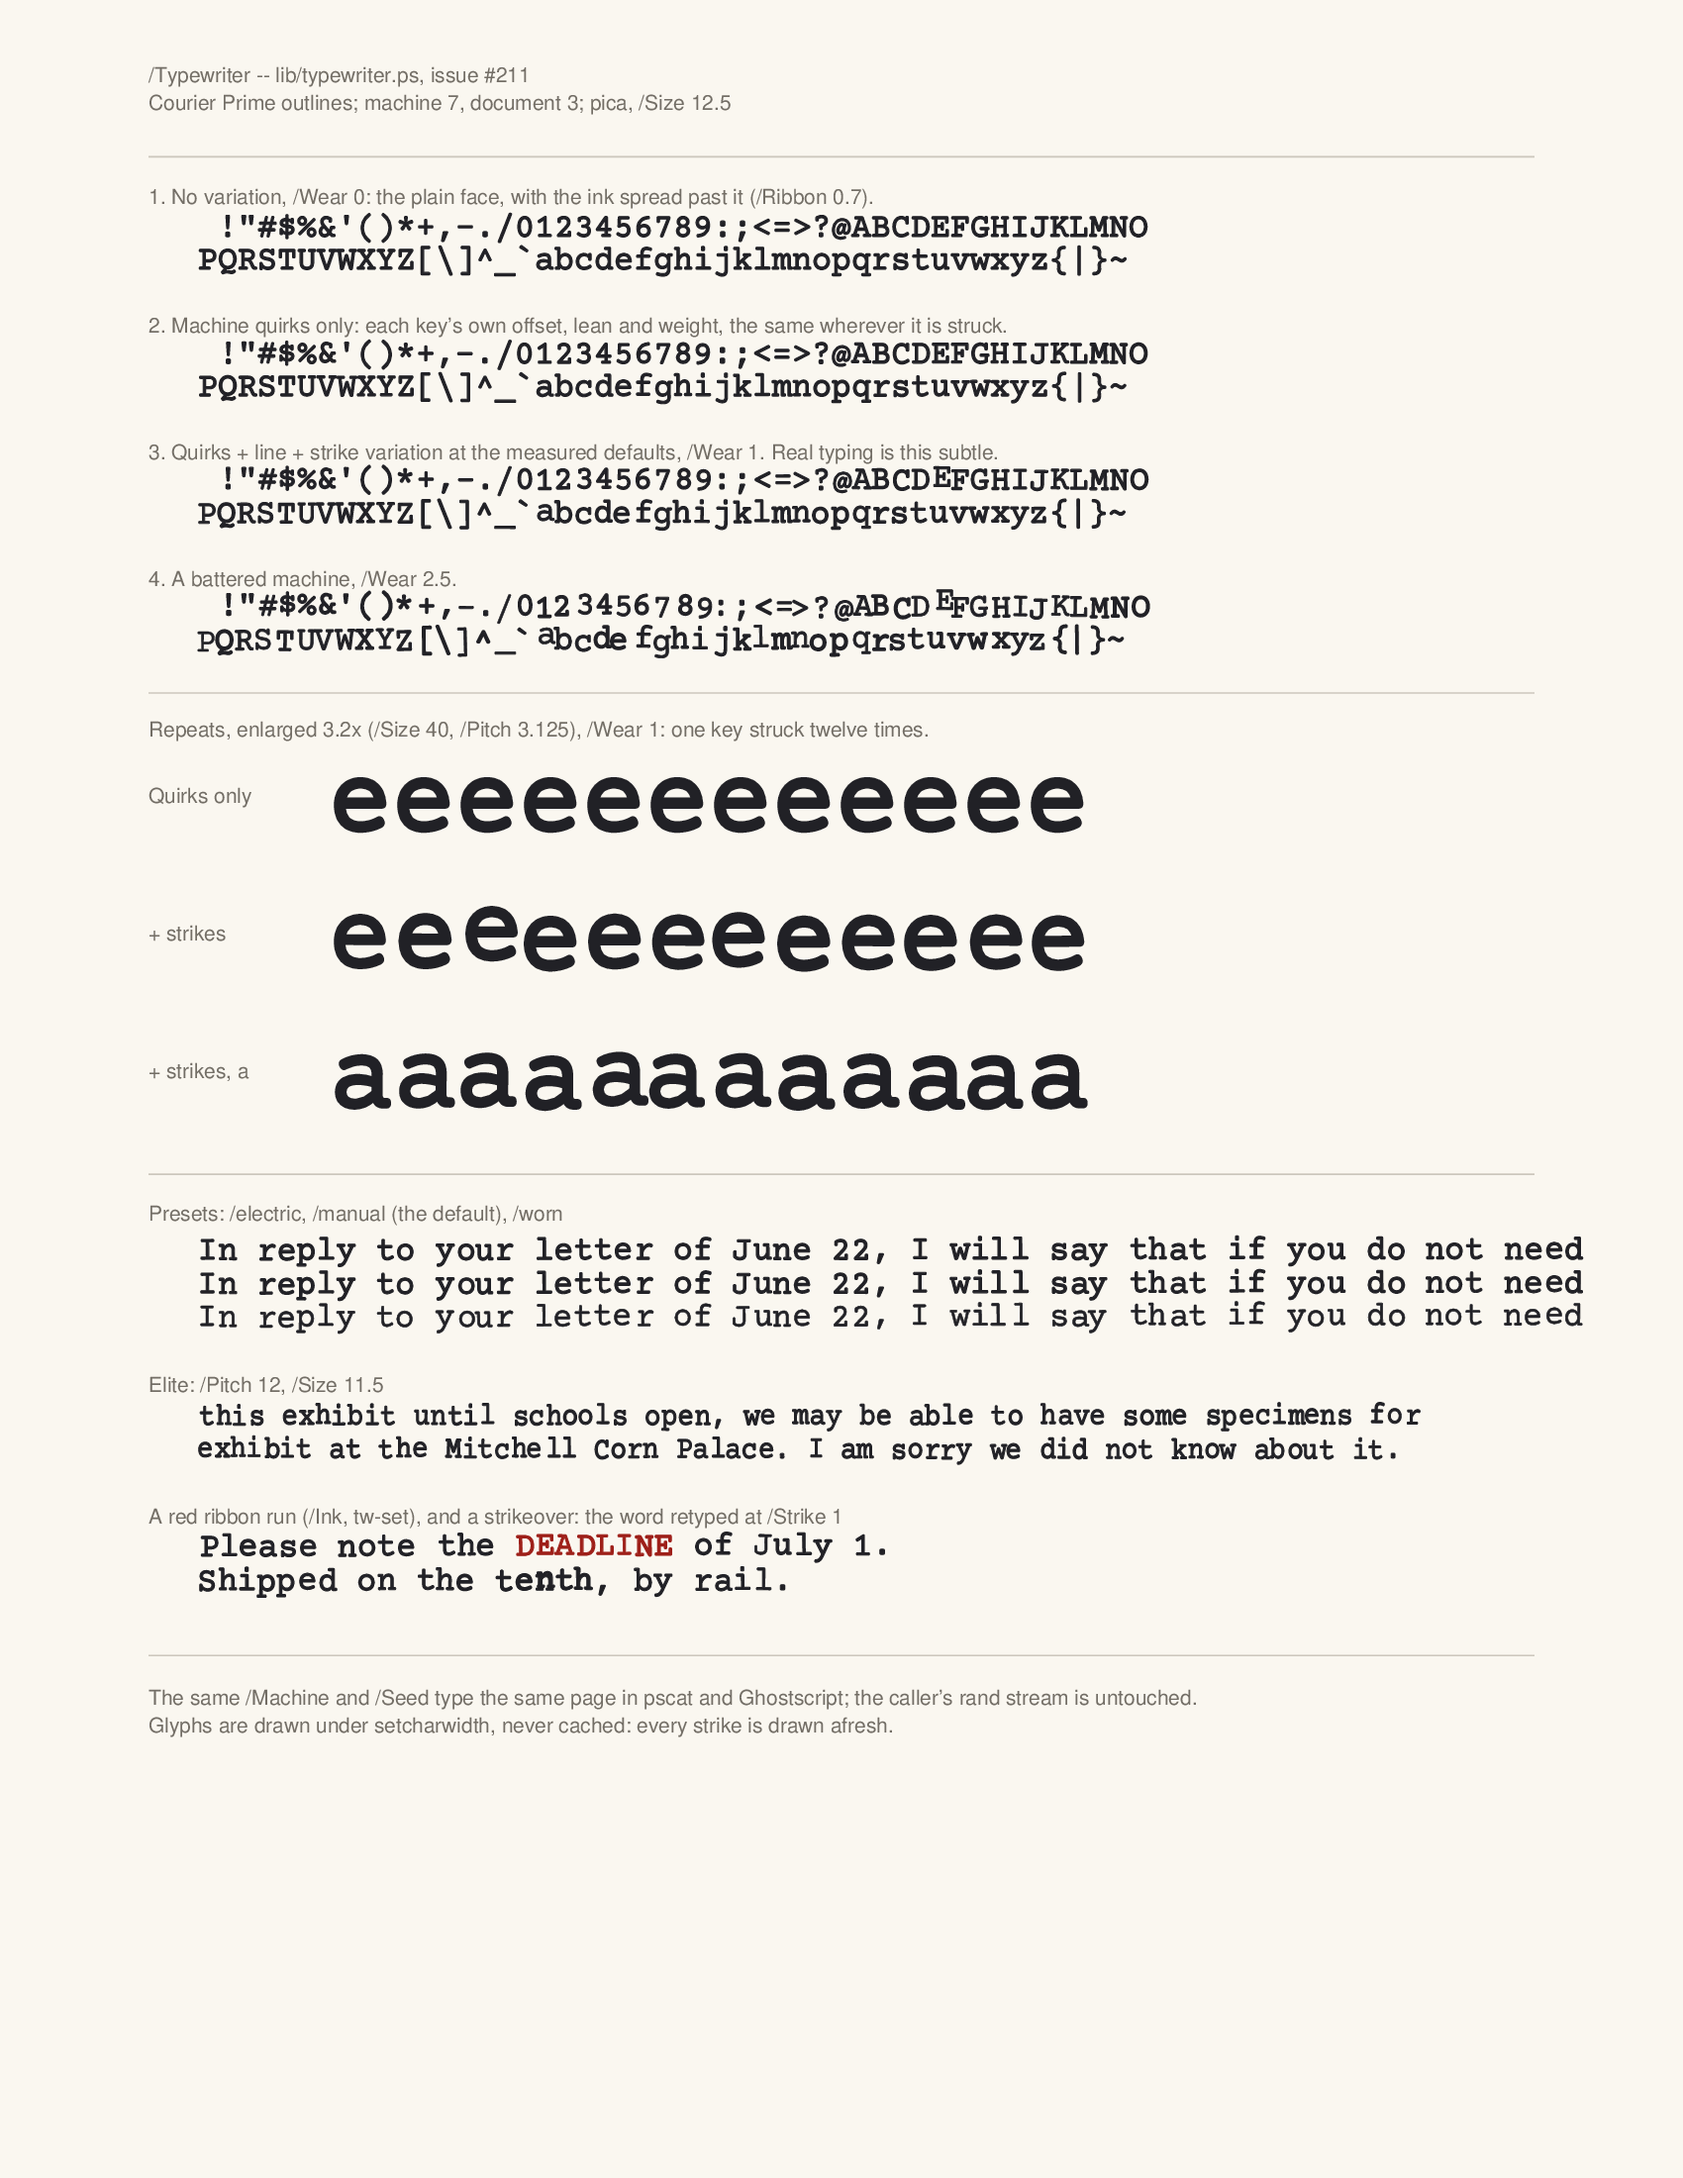
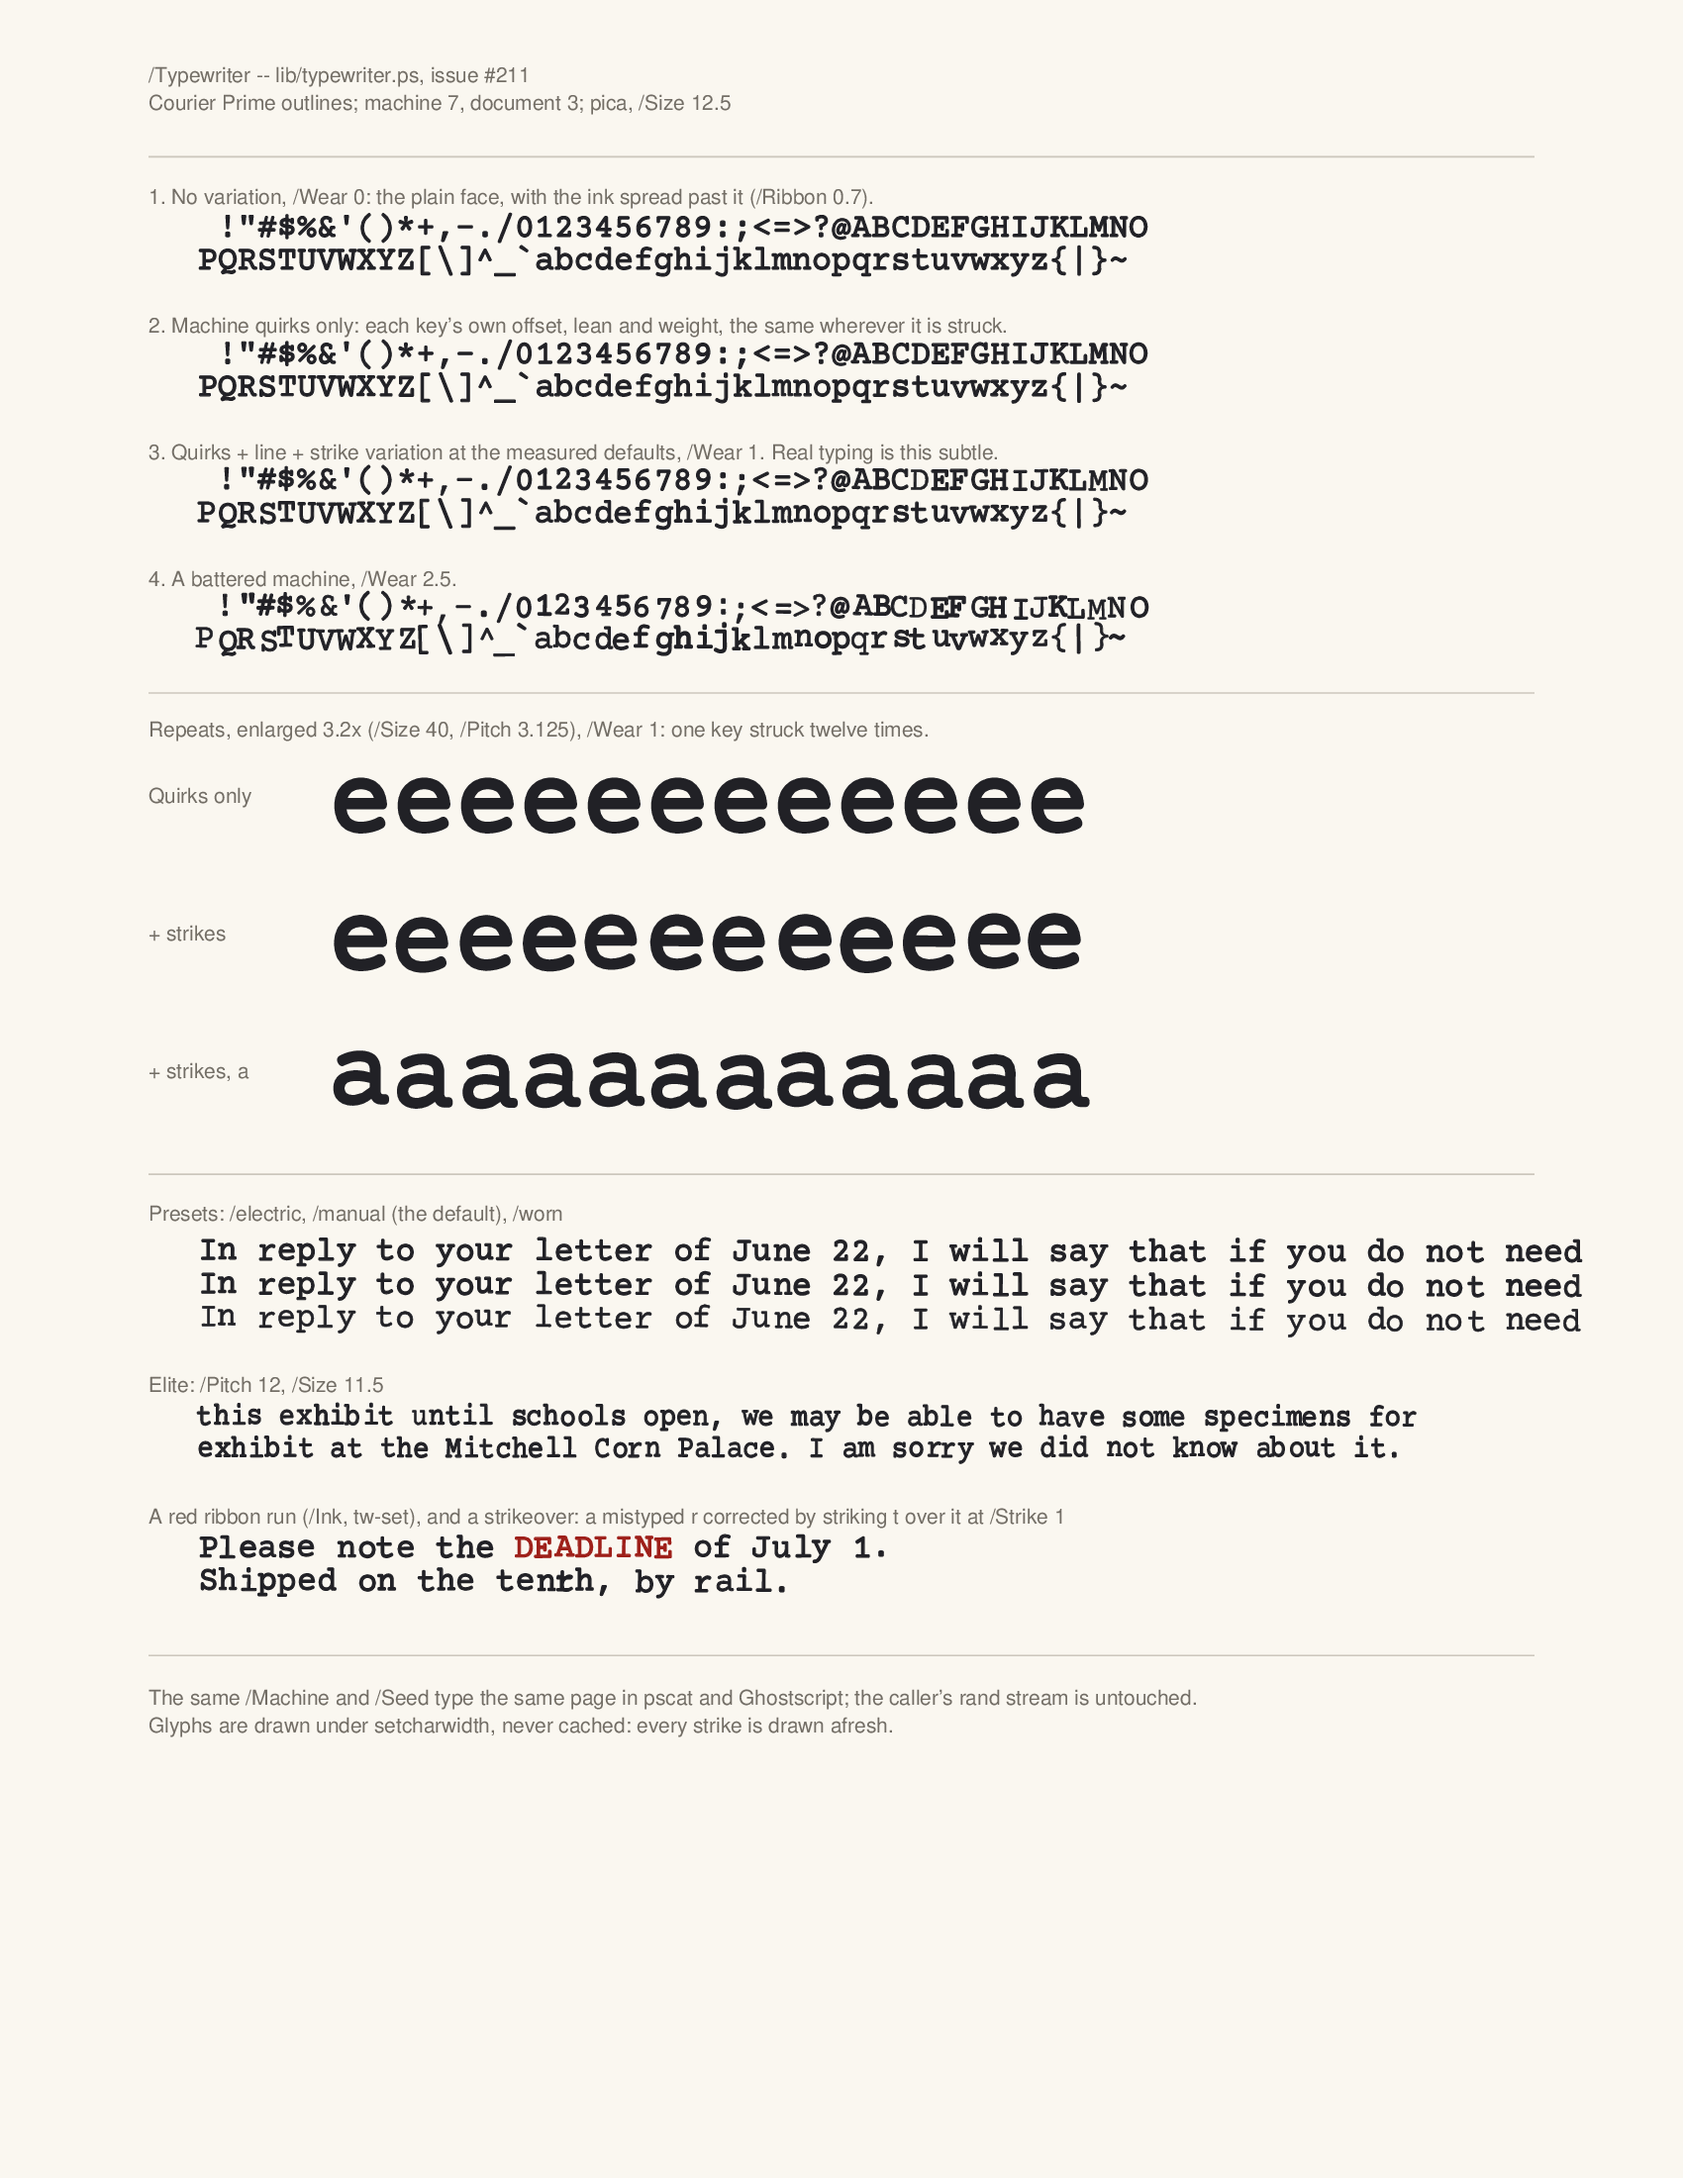
typewriter: hash both chains into a draw's high byte, drop the line memo on any option change, guards end TWState (#211)
Step 6 review findings. The hash change re-rolls every page, so the
specimen is re-rendered; its strikeover is now a t struck over a
mistyped r.

diff --git a/tests/typewriter.rs b/tests/typewriter.rs
@@ -170,6 +170,37 @@ fn a_second_strike_at_a_cell_differs_from_the_first() {
     assert_ne!(strike(1), strike(2));
 }
 
+/// The line layer is memoized per line, already scaled by the wear. A
+/// change of options mid-line must drop it, or a strike would depend on
+/// what was typed before it on the line.
+#[test]
+fn an_option_change_mid_line_types_as_a_fresh_block_would() {
+    let after = |img: &[u8]| -> Vec<u8> {
+        let w = width_px();
+        // columns 3 onwards; the space at column 2 keeps `b`'s ink out
+        let x0 = X0 + 3 * CELL - CELL / 2;
+        (Y0 - 40..Y0 + 12)
+            .flat_map(|y| img[y * w + x0..y * w + x0 + 3 * CELL].to_vec())
+            .collect()
+    };
+    let changed = ink(&render(
+        "36 84 moveto << /Machine 3 /Seed 8 /Wear 2 >> tw-setup (ab ) show \
+         << /Wear 0.5 >> tw-set (def) show",
+    ));
+    let fresh = ink(&render(
+        "36 84 moveto << /Machine 3 /Seed 8 /Wear 0.5 >> tw-setup 57.6 84 moveto (def) show",
+    ));
+    assert!(
+        after(&fresh).iter().any(|&p| p > 128),
+        "the box missed the glyphs"
+    );
+    assert_eq!(
+        after(&changed),
+        after(&fresh),
+        "a mid-line /Wear change kept the line's old variation"
+    );
+}
+
 #[test]
 fn stringwidth_and_charpath_change_nothing_a_later_show_draws() {
     let setup = "36 84 moveto << /Machine 4 /Seed 2 >> tw-setup";

diff --git a/notes/211-typewriter-font.md b/notes/211-typewriter-font.md
@@ -25,7 +25,7 @@ sections 2–5 and 7 of it, with flat ink. Section 6 (ribbon ink) is #212.
     frame.
 - `examples/typewriter_specimen.ps` renders `docs/typewriter_specimen.png`
   (pscat) and `docs/typewriter_specimen_gs.png` (gs). Both are 200 dpi.
-- `tests/typewriter.rs` (8 tests), the `%%SelfTest` blocks in
+- `tests/typewriter.rs` (9 tests), the `%%SelfTest` blocks in
   `lib/typewriter.ps` (guards, presets, pica and elite advances), and the
   library added to `tests/libbind.rs`.
 
@@ -108,12 +108,23 @@ sections 2–5 and 7 of it, with flat ink. Section 6 (ribbon ink) is #212.
   every prefix to 256 states, so one strike in 256 got another cell's
   draws. Two Pearson chains, with different starts and byte offsets, give
   16 bits.
+  - The chains never mix inside `mix2`. So a draw's high byte hashes both
+    chains' final bytes. From one chain alone, two prefixes that share the
+    first chain's state (one pair in 256) would agree on the high byte of
+    every draw (step 6 review).
   - Seeds are folded in at `tw-setup`; the cell, the code and the strike
     index are folded in per strike.
   - Separate domain keys keep the machine, line and strike draws apart.
 - **The machine table** (95 entries) is rebuilt only when `/Machine`
-  changes. The line layer is memoized per line. Both are memoization, so
-  `BuildChar` stays pure in effect.
+  changes. The line layer is memoized per line.
+  - The line memo holds values already scaled by the wear, so every option
+    change drops it. Otherwise a `/Wear` change mid-line would keep the
+    line's old variation (step 6 review;
+    `an_option_change_mid_line_types_as_a_fresh_block_would`).
+  - Both are memoization, so `BuildChar` stays pure in effect.
+- **Guards end `TWState` before they raise.** A caller's `stopped` must
+  not leave the side dict on the dict stack, where it would catch the
+  caller's next `def`. A `%%SelfTest` pins this.
 - **Pressure and weight** set the width of the spread stroke:
   `0.6pt × /Ribbon × pressure × weight`. That is section 6 step 3, the one
   part of the ink model that flat ink can show.
